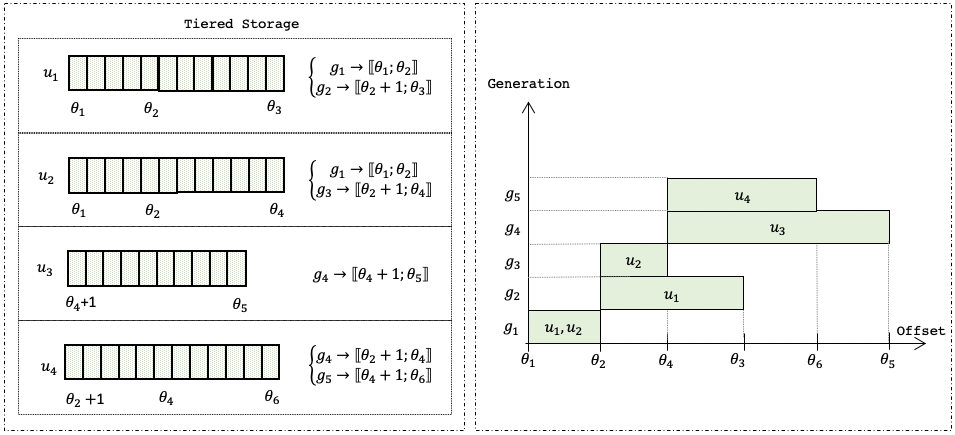
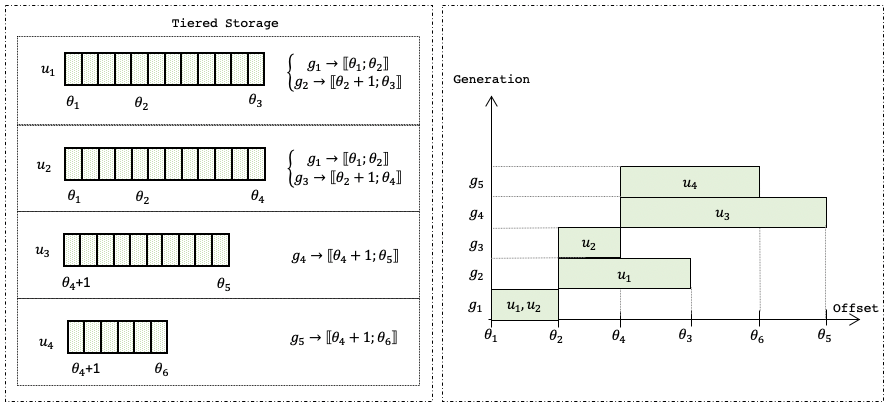
Replica lineage and tiered storage

diff --git a/tiered-storage-replication.tex b/tiered-storage-replication.tex
@@ -37,15 +37,15 @@
 \section{Motivation}
 \epigraph{\textit{"At its heart a Kafka partition is a replicated log"}}{Apache Kafka online documentation \cite{RD1}}
 
-As stated in the reference documentation and echoed in \cite{KDG}, replication in Apache Kafka is one of its most fundamental characteristic. The replication protocol which Kafka implements and the guarantees it provides are well documented \cite{KIP101} \cite{KIP279}, and explains how and why a consistent lineage for a topic-partition is preserved across its replicas irrespective of the nature and frequency of fail-overs this topic-partition experiences. 
+As stated in the reference documentation and echoed in \cite{KDG}, replication in Apache Kafka is one of its most fundamental characteristic. The replication protocol which Kafka implements and the guarantees it provides are well documented, and explains how and why a consistent lineage for a topic-partition is preserved across its replicas irrespective of the nature and frequency of fail-overs this topic-partition experiences \cite{KIP101}\cite{KIP279}.
 
-Introducing a feature which would weaken the replication guarantees offered by Kafka is a red herring. Over time, Kafka gracefully evolved and built on top of existing replication protocol to strengthen replication semantic  One of the premise of the integration of data tiering in Apache Kafka is to provide users with a uniform experience of access to data irrespective of its provenance (the storage tier where it comes from). This especially means data lineage is kept consistent when tiered segments are the source of data and the specifications which apply to local replicas are still honored when tiered segments contribute to a replica's lineage.
+Over time, Kafka gracefully evolved and built on top of existing replication protocol to strengthen replication semantic. Introducing a feature which would weaken the replication guarantees offered by Kafka would not be acceptable. One of the premise of the integration of data tiering in Apache Kafka is to provide users with a uniform experience of access to data irrespective of its provenance (the storage tier where it comes from). This requires the data lineage to be kept consistent when information is read from tiered segments in addition to local segments. The specifications which apply to local replicas are still honored when tiered segments contribute to a replica's lineage.
 
-This document assumes some level of familiarity with the replication protocol implemented in Kafka and how replica lineage is maintained across replicas. At a very high level, this protocol is based on \textit{log truncation}, which relies on replica history, materialized by a list of generation to start offset vectors, which evolves with cluster events and leadership migration. At a given point in time, the lineage of the log of a topic-partition is that of the leader replica of that topic-partition. It is possible for the end offset of the log to decrease when leadership of a topic-partition is migrated.
+This document assumes some level of familiarity with the replication protocol implemented in Kafka and how replica lineage is maintained across replicas. At a very high level, this protocol is based on \textit{log truncation}, which relies on replica history, materialized by a list of generation to start offset vectors, which evolves with cluster events and leadership migration. At a given point in time, the lineage of the log of a topic-partition is that of the leader replica of that topic-partition. It is possible for the end offset of the log to decrease when leadership of a topic-partition is migrated. Truncation prevents divergences between replicas.
 
 \section{Introducing example}
 
-The following discussion is based on an example which consists in a topic-partition with three replicas and which experiences leadership migrations. The lineage tree of the topic-partition is provided in diagrams along with the leadership assignments throughout the sequence of generations for this topic-partition.
+The following discussion is based on an example which consists in a topic-partition with three replicas and multiple leadership migrations. The lineage tree of the topic-partition is provided in diagrams along with the leadership assignments throughout the sequence of generations for this topic-partition.
 
 \subsection{Notations and simplifications}
 
@@ -107,12 +107,12 @@ A replica which becomes the leader of a topic-partition, and detects some segmen
 
 A proposed approach is as follows: the replica which becomes a leader will try to find a leader epoch which is common to tiered segments and the local epoch cache, following an approach similar to the resolution of the truncation offset \cite{KIP279}. It then chooses an offset depending on the relative position of the latest offset of the tiered segments and the local end offset.
 
-Multiple outcomes can result. In figure \ref{fig:become-leader}, the following notations are used:
+Multiple outcomes can result. In figure \ref{fig:become-leader}, the following notations are used.
 
 \begin{itemize}
-	\item $\theta_R(g)$ is the last offset of all segments, or part of segments, which contain records ingested at generation $g$.
-	\item $\theta_S(g)$ is the local start offset for the leader epoch $g$ (inclusive).
-	\item $\theta_E(g)$ is the local end offset for the leader epoch $g$ (inclusive).
+	\item $\theta_R(g)$ is the last offset of all segments, or part of segments, which contain records ingested at or up to generation $g$.
+	\item $\theta_S(g)$ is the local start offset for the leader epoch $g$ (inclusive) on the leader replica.
+	\item $\theta_E(g)$ is the local end offset for the leader epoch $g$ (inclusive) on the leader replica.
 \end{itemize} 
 
 \begin{figure}[h!]
@@ -135,10 +135,10 @@ In order to handle case \circled{E.2}, the epoch to start offset vectors for the
 The new leader will then derive the \textit{remote end offset} (\textbf{REO}), which is relative to a given leader epoch.
 
 \begin{outline}[enumerate]
-	\1 \textbf{Case \circled{A}}: The REO can be set to $\theta_R$ (by convention, the REO will be inclusive, if not, $\theta_R = \theta_S +1$ can be adopted).
-	\1 \textbf{Case \circled{B}}: The records present simultaneously in the external and local storage are guaranteed to match. The remote end offset will be set to $\theta_R$. Any segment with base offset and end offset within the range $[\theta_S; \theta_R]$ will not be offloaded.
-	\1 \textbf{Case \circled{C}}: In this case, we will want to consider the lineage of the new leader to be consistent with the existing behaviour with local segments. The REO will be set to $\theta_E$, and the portion of the log in the range $[\theta_E + 1, \theta_R]$ will not be part of the current lineage (but is not deleted, because it can be reinstated as a part of the log by another leader in the future).
-	\1 \textbf{Case \circled{D}}: The REO will be set to $\theta_R$. No assumption should be made in other part of the system that the log concatenated from tiered and local segments is contiguous.
+	\1 \textbf{Case \circled{A}}: The REO can be set to $\theta_R + 1$ (the same convention as for the LEO is adopted).
+	\1 \textbf{Case \circled{B}}: The records present simultaneously in the external and local storage are guaranteed to match. The remote end offset will be set to $\theta_R + 1$. Any segment with base offset and end offset within the range $[\theta_S; \theta_R]$ will not be offloaded.
+	\1 \textbf{Case \circled{C}}: In this case, we will want to consider the lineage of the new leader to be consistent with the existing behaviour with local segments. The REO will be set to $\theta_E + 1$, and the portion of the log in the range $[\theta_E + 1, \theta_R]$ will not be part of the current lineage (but is not deleted, because it can be reinstated as a part of the log by another leader in the future).
+	\1 \textbf{Case \circled{D}}: The REO will be set to $\theta_R + 1$. No assumption should be made in other part of the system that the log concatenated from tiered and local segments is contiguous.
 	\1 \textbf{Case \circled{E}}: The REO will be set to $-1$.
 \end{outline}
 
@@ -182,16 +182,16 @@ An algorithm to resolve the REO (algorithm \ref{alg:reo}) which derived from the
 			\State $\theta_E \leftarrow  \textsc{EndOffsetFor}(h_j)$
 			\\
 			\If{$\theta_R > \theta_E$}
-			\State \Return $\theta_E - 1$ // Case \circled{C}
+			\State \Return $\theta_E$ // Case \circled{C}
 			\Else
-			\State \Return $\theta_R$ // Case \circled{A}, \circled{B}, \circled{D}
+			\State \Return $\theta_R + 1$ // Case \circled{A}, \circled{B}, \circled{D}
 			\EndIf
 			\\
 		\EndFunction
 	\end{algorithmic}	
 \end{algorithm}
 
-
+\newpage
 \subsection{Reconciliation between local and tiered segments on \texttt{become-follower}}
 
 \subsubsection{REO propagation}
@@ -202,32 +202,35 @@ Through the truncation protocol, the follower and leader collaboratively resolve
 
 In order to adjust its initial fetch offset, the follower needs to know what the REO on the leader is. Additionally, the lineage characterization of the leader replica between the truncation offset and the REO needs to be copied and recorded by the follower. This is to preserve the current behaviour; for instance, to ensure the truncation protocol is not violated if the follower becomes a leader in the future, and its lineage between the truncation offset and the REO needs to be inspected to satisfy \texttt{OffsetsForLeaderEpoch} requests. Note that the lineage of the follower replica before the truncation offset is guaranteed to be identical to that of the leader.
 
-There are similarities between the information required in our case and that of the truncation algorithm. The design alternative\footnote{https://tinyurl.com/yatnunsh} \circled{2} from KIP-279 \cite{KIP279} discusses how sub-sequences of the leader epoch to offset vector lists could be exchanged between a leader and follower in order to resolve the truncation offset. Our requirement is slightly different, since we only need the part of the lineage $\mathcal{L}$ between two defined offsets: $\theta_T(g)$ and REO.
+There are similarities between the information required in our case and that of the truncation algorithm. The design alternative\footnote{https://tinyurl.com/yatnunsh} \circled{2} from KIP-279 \cite{KIP279} discusses how sub-sequences of the leader epoch to offset vector lists could be exchanged between a leader and follower in order to resolve the truncation offset. Our requirement is slightly different, since we only need the part of the lineage $\mathcal{L}$ between two defined offsets: $\theta_{T}$ and $\theta_{REO}$.
 
 The characterizations of $\mathcal{L}$ are stored in the leader epoch cache, which is maintained locally by each replica. We chose not to create and maintain a copy of the leader epoch cache in an alternative destination, as this would require to implement the required coordination in the system to ensure both copy are kept in sync. Therefore, in order to access $\mathcal{L}$, the follower needs to retrieve it from the leader.
 
-We propose here to add a new API as follows. Given:
-
-\begin{itemize}
-\item Two offsets $\theta_1$ and $\theta_2$ s.t. $\theta_1 \leq \theta_2$;
-\item A leader epoch cache $\mathcal{L}=\mathcal{G}\times\Theta=(g_i, \theta_S(g_i))_{i \in \{1,...,n\}}$;
-\end{itemize}
-
-The API returns the sublist $\mathcal{L'}=(g_i, \theta_S(g_i))_{i \in \{k,...,l\}} \sqsubset \mathcal{L}$ s.t. $\left\{
+We propose the following approach. When the follower makes a \texttt{FetchRequest} starting with the truncation offset $\theta_T$, and the leader detects that $\theta_T < \theta_{REO}$, the \texttt{FetchResponse} returns a specific error which contains $\theta_{REO}$ and the part of the epoch cache between $\theta_T$ and $\theta_{REO}$. More formally, if the leader epoch cache is  $\mathcal{L}=\mathcal{G}\times\Theta=(g_i, \theta_S(g_i))_{i \in \{1,...,n\}}$, the response would contain the sublist $\mathcal{L'}=(g_i, \theta_S(g_i))_{i \in \{k,...,l\}} \sqsubset \mathcal{L}$ s.t. $\left\{
 \begin{array}{l}
-g_k=\max \texttt{} \{g \in \mathcal{G} \texttt{ } | \texttt{ } \theta_S(g) \leq \theta_1\}\\
-g_l=\min \texttt{} \{g \in \mathcal{G} \texttt{ } | \texttt{ } \theta_S(g) \geq \theta_2\}\\
+g_k=\max \texttt{} \{g \in \mathcal{G} \texttt{ } | \texttt{ } \theta_S(g) \leq \theta_{REO}\}\\
+g_l=\min \texttt{} \{g \in \mathcal{G} \texttt{ } | \texttt{ } \theta_S(g) \geq \theta_T\}\\
 \end{array}
 \right.$
 
-Let's call the API \texttt{OffsetForLeaderEpochList}\footnote{This is just an example. Alternatively, could an existing API be extended, without incurring a payload penalty in non-tiered scenarios?} in this discussion.
+Consider the example described in section \ref{lineage_tree}. Assume the replica becomes online and starts replicating from replica 2.
 
+\begin{figure}[H]
+	\centering
+	\includegraphics[scale=0.45]{lineage-tree-2.png}
+	\captionof{figure}{}
+	\label{fig:lineage-tree-2}
+\end{figure}
 
+Two RPCs from the follower are required to reconcile the current log lineage.
 
-The list of vectors for the range $[\theta_T(g); REO]$ could be arbitrary long
+\begin{figure}[H]
+	\centering
+	\includegraphics[scale=0.5]{RPCs.png}
+	\captionof{figure}{}
+	\label{fig:rpc}
+\end{figure}
 
-
-Consider the example described in section \ref{lineage_tree}. 
 
 \newpage
 \section{Coordination for Data Tiering}
